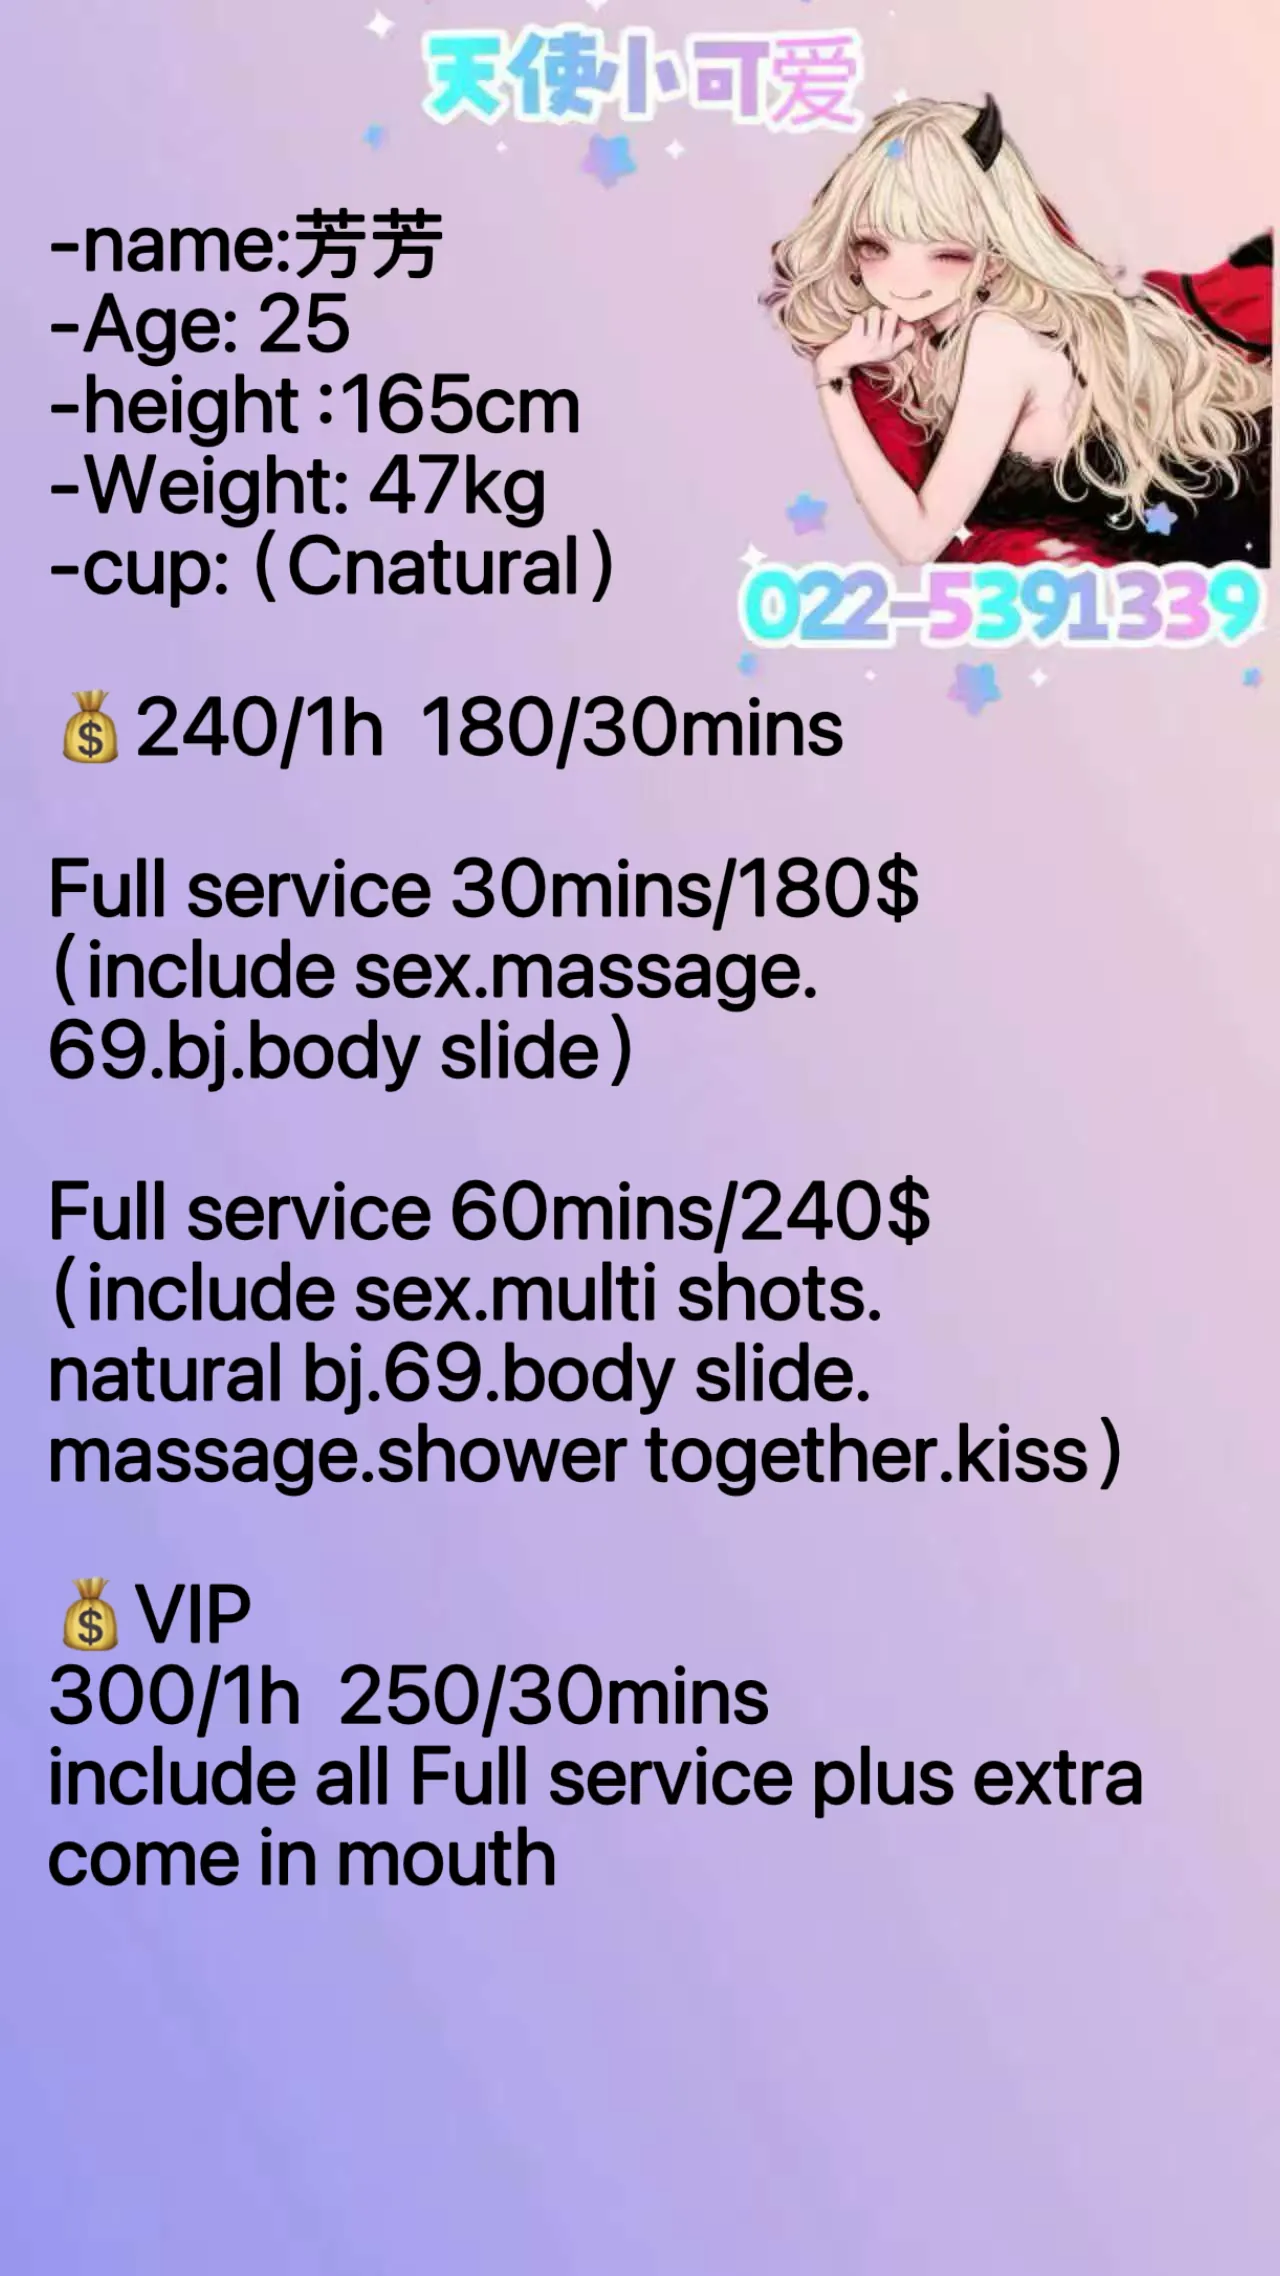
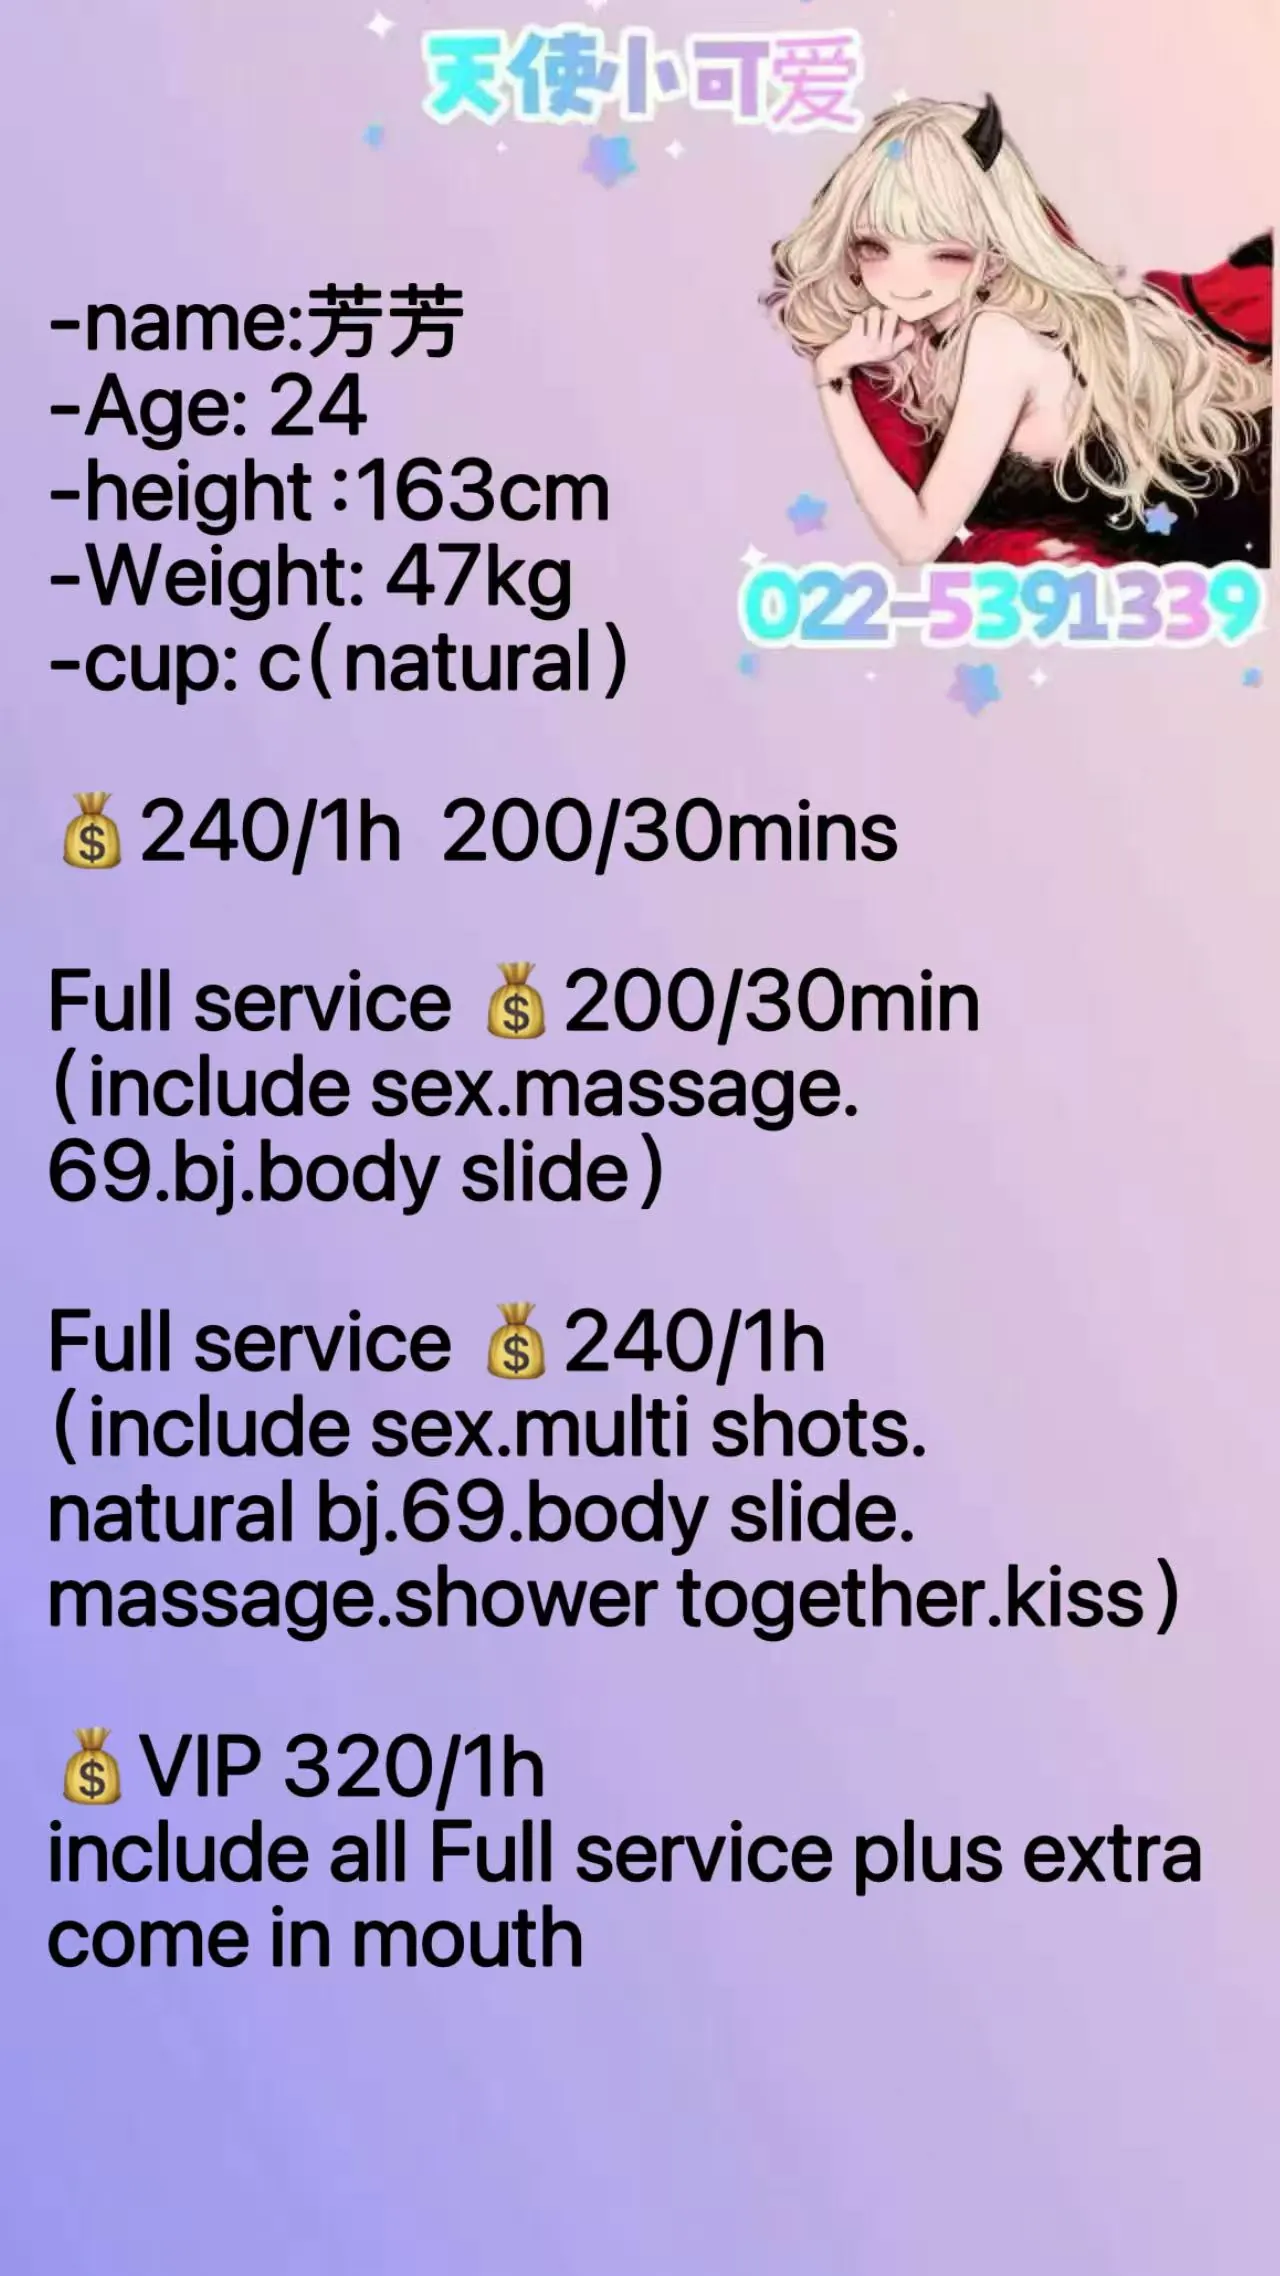
feat: Update Fangfang (芳芳, ID 40) profile in Central with new prices, age, services and WebP optimized assets

Changed region(s): [[0.0312, 0.0936, 0.9375, 0.8735]]

diff --git a/src/lib/data.js b/src/lib/data.js
@@ -1026,38 +1026,41 @@ export const girls = [
     verified: true,
     location: "Central",
     stats: {
-      age: 25,
-      height: "165cm",
+      age: 24,
+      height: "163cm",
       weight: "47kg",
-      cup: "C",
+      cup: "C (Natural)",
       nationality: "Chinese",
     },
     image: "/images/girls/fangfang/1.webp",
     description: {
-      en: "Newly arrived beauty Fangfang. Gentle and charming, she offers a deeply relaxing sensual massage and an unforgettable VIP experience.",
-      cn: "🆕最新空降🌸 中区：芳芳，超高颜值，甜美可爱。温柔体贴的她为您带来极致的感官按摩与尊贵的全方位VIP互动体验。",
+      en: "Gentle, sweet, and highly cooperative, the beautiful 24-year-old Fangfang is now available in Central Auckland. Standing at 163cm with a perfectly balanced figure (163cm, 47kg) and a natural C-cup, she specializes in providing a deeply relaxing sensual massage and an unforgettable VIP experience. Her warm smile and attentive touch are designed to melt all of your worries away and guide you into a state of absolute relaxation.",
+      cn: "温柔娇美、极具配合度的24岁女孩芳芳，现已来到中区为您提供舒缓身心的温馨陪伴。她拥有163cm、47kg的匀称娇躯，天然C罩杯性感曲线与白嫩肌肤。专业定制SVIP与全套互动体验，包含双人淋浴、缠绵舌吻、性感黑丝、胸推漫游、深度无套口及口爆等项目。她将以最温暖的笑容与体贴入微的抚触，为您拂去所有疲惫，尽享私密欢愉。",
     },
-    price: "$300 / 1h (VIP) · $240 / 1h · $180 / 30min",
+    price: "$320 / 1h (VIP) · $240 / 1h · $200 / 30min",
     services: {
       en: [
-        "Kiss",
-        "Sensual\u00A0massage",
+        "French kiss",
+        "Shower together",
+        "Sensory massage",
         "69",
-        "BJ\u00A0(with\u00A0condom)",
-        "1\u00A0shot",
-        "VIP\u00A0($300): French\u00A0kiss, Shower\u00A0together, Breast\u00A0massage\u00A0&\u00A0Body\u00A0slide, Sensual\u00A0massage, Natural\u00A0bj, 69, Cum\u00A0in\u00A0mouth, Multiple\u00A0shots",
+        "Body slide",
+        "Natural BJ",
+        "Multi shots",
+        "VIP: Natural BJ · French kiss · 69 · Cum in mouth · Multi shots · Shower together · Body slide",
       ],
       cn: [
-        "接吻",
+        "舌吻",
+        "双人洗浴",
         "感官按摩",
         "69",
-        "戴套吹",
-        "做1次",
-        "VIP ($300)：蛇吻，一起洗澡，胸推漫游，感官按摩，无套口，69，口报，多次",
+        "胸推漫游",
+        "无套口",
+        "多次数",
+        "VIP套餐：无套口 · 舌吻 · 69 · 口爆 · 多次数 · 双人洗浴 · 胸推漫游",
       ],
     },
     gallery: [
-      "/images/girls/fangfang/1.webp",
       "/images/girls/fangfang/2.webp",
       "/images/girls/fangfang/3.webp",
       "/images/girls/fangfang/data1.webp",
